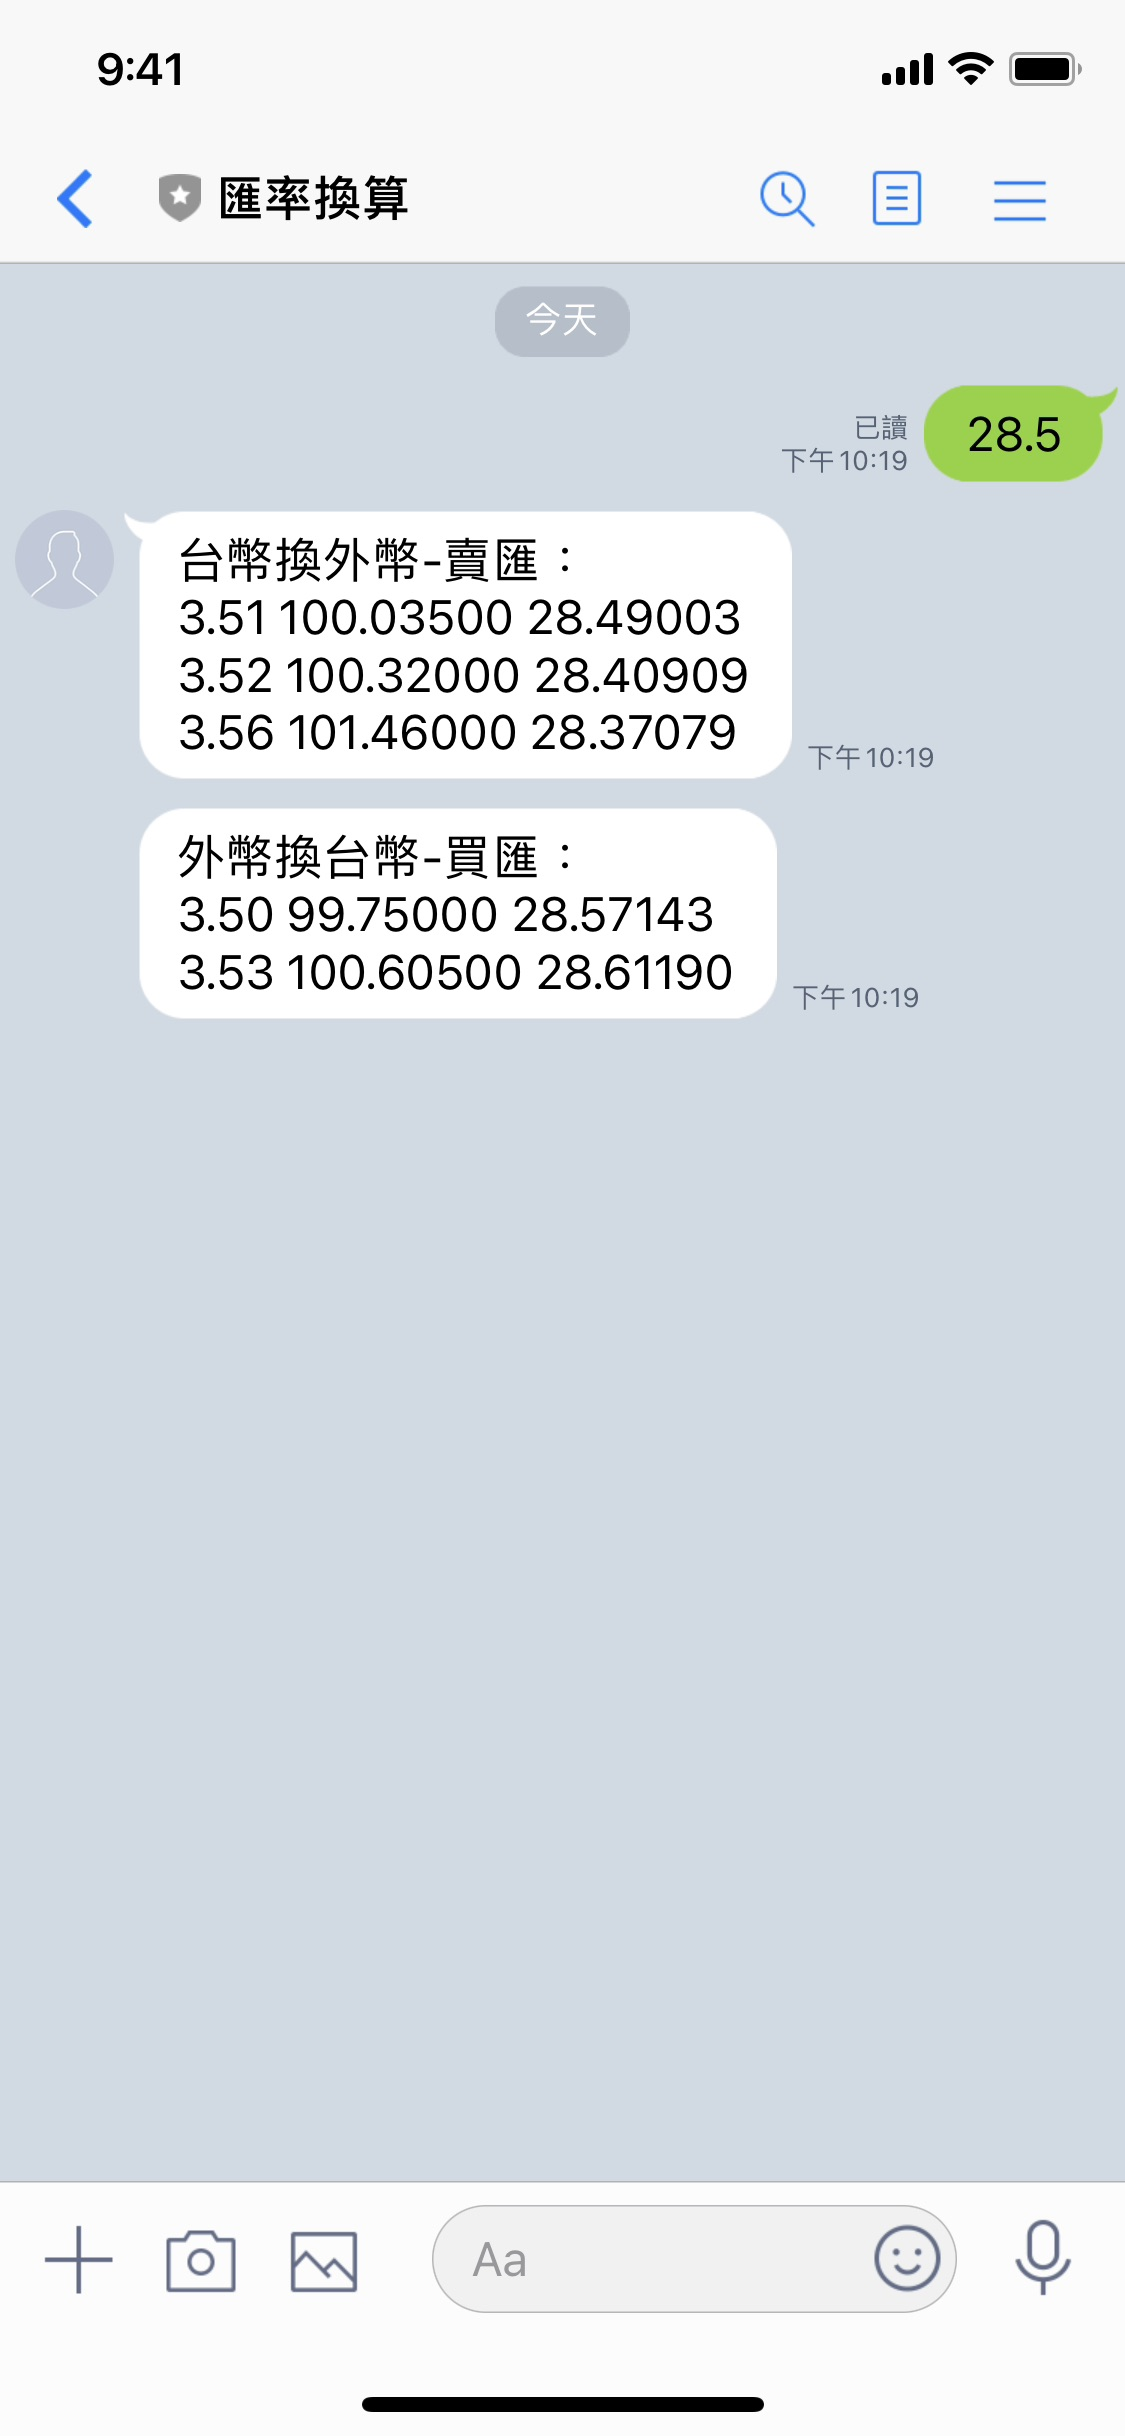
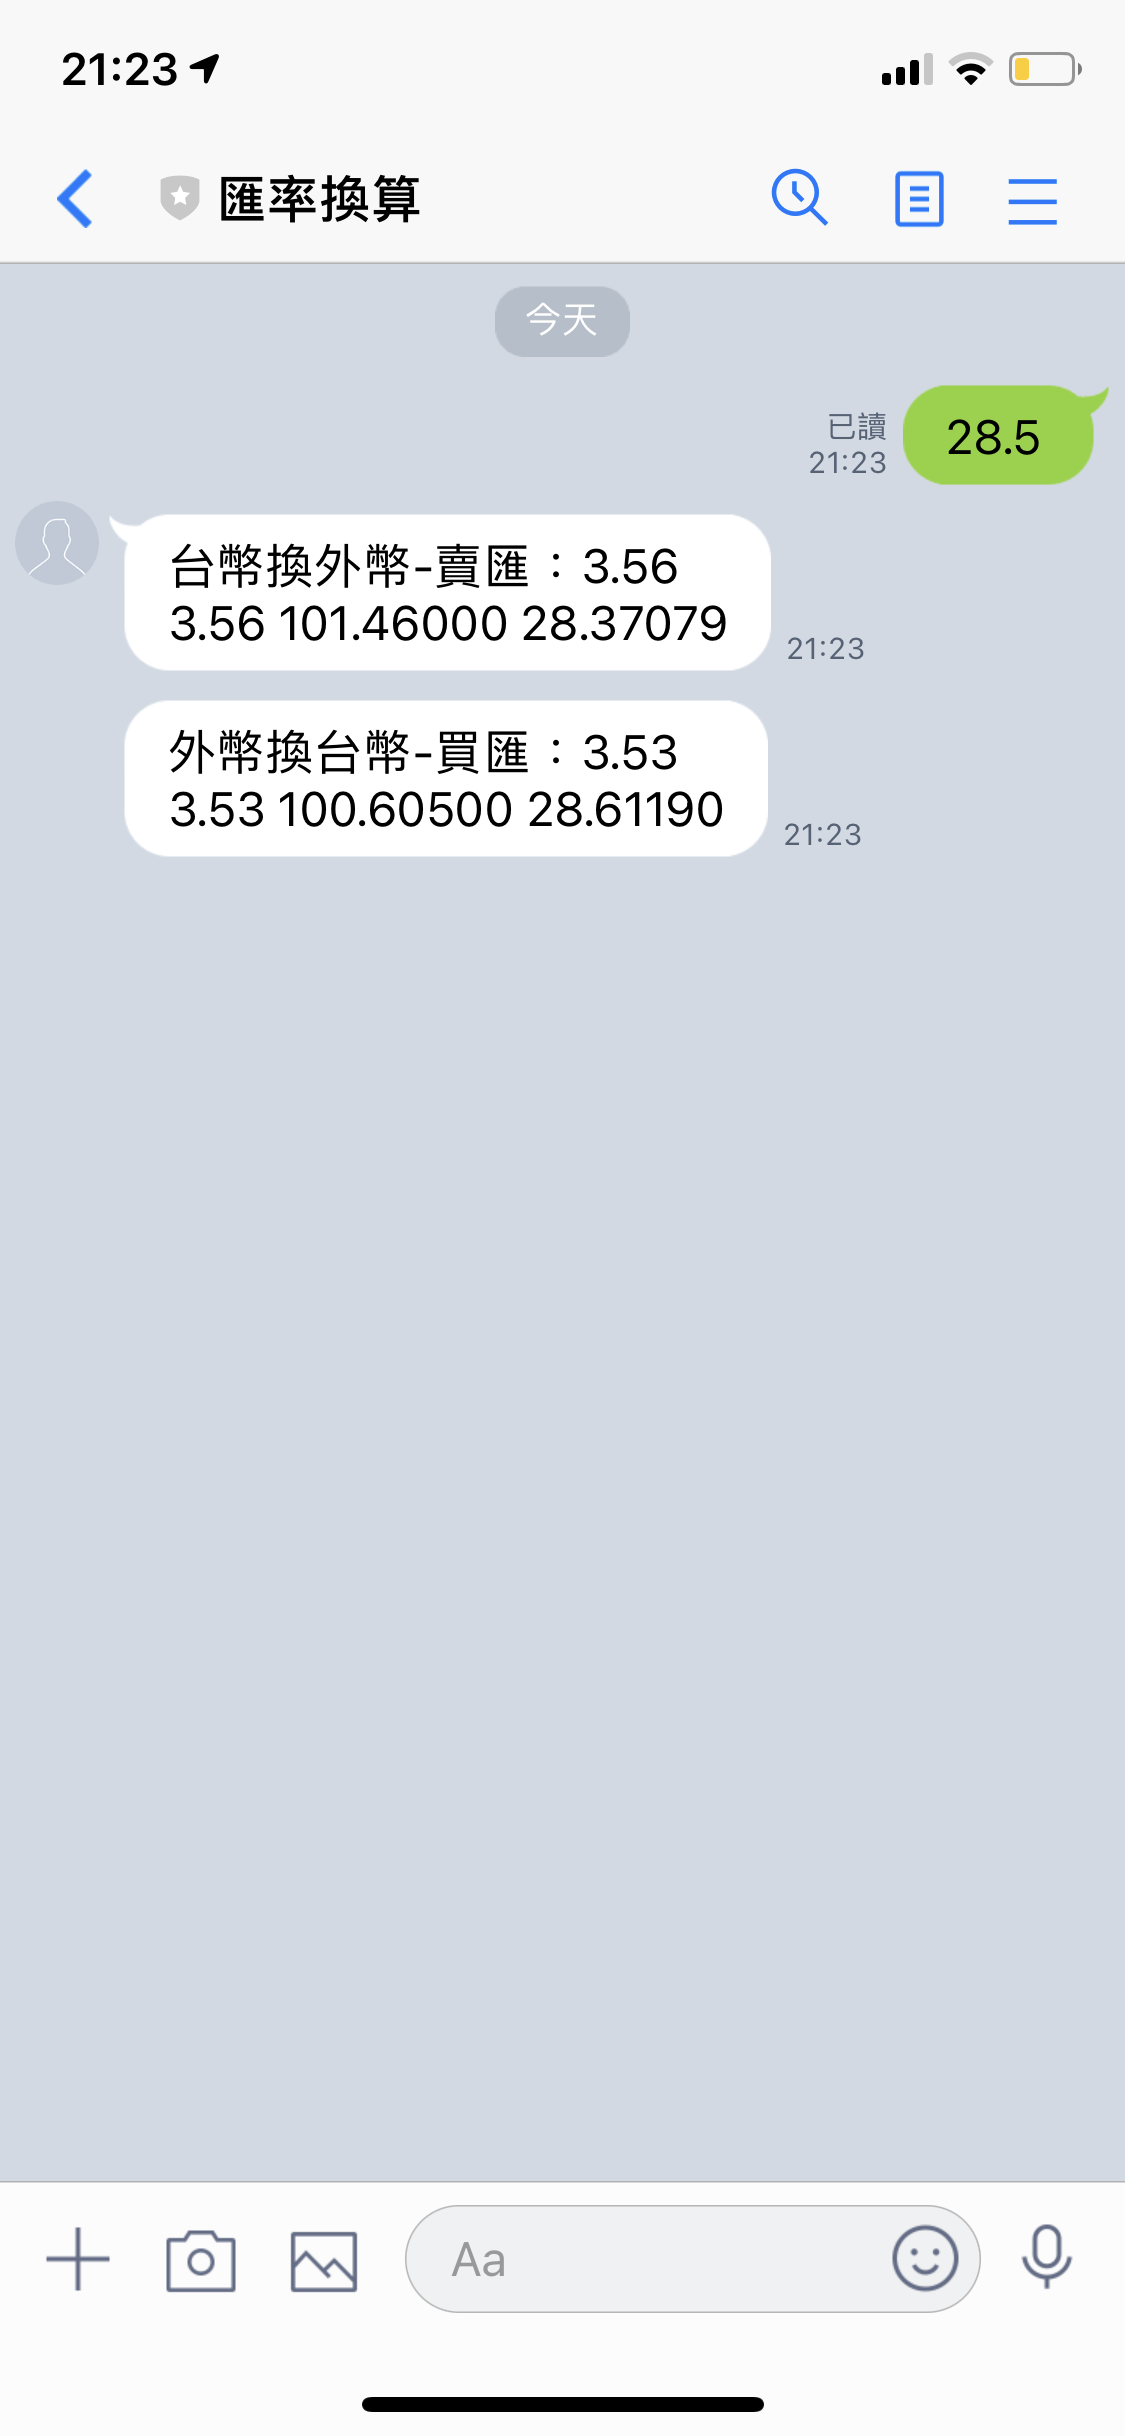
更改輸出方式

diff --git a/換匯計算/程式碼.js b/換匯計算/程式碼.js
@@ -23,7 +23,7 @@ function doPost(e) { //處理 LineBot Post Request
                     if (!isNaN(Number(text))) {
                         text = Number(text);
                         if (text > 0)
-                            LineBotReply(String("台幣換外幣-賣匯：\n" + ask(text, userMinSu)), String("外幣換台幣-買匯：\n" + bid(text, userMinSu)), String(replyToken));
+                            LineBotReply(String("台幣換外幣-賣匯：" + ask(text, userMinSu)), String("外幣換台幣-買匯：" + bid(text, userMinSu)), String(replyToken));
                         else
                             LineBotReply("請輸入大於0的數字", String(replyToken));
                     }
@@ -105,10 +105,9 @@ function ask(a, userMinSu) { //台幣換外幣-賣匯
 
         if ((Math.floor(temp * 10) % 10 <= 4) && (temp2 / num <= min)) {
             min = temp2 / num;
-            str += newLine(num.toFixed(UserSu), temp.toFixed(5), min.toFixed(5));
+            str = num.toFixed(UserSu) + newLine(num.toFixed(UserSu), temp.toFixed(5), min.toFixed(5));
         }
     }
-    str = str.slice(0, str.length - 1);
     return str;
 }
 
@@ -123,19 +122,18 @@ function bid(b, userMinSu) { //外幣換台幣-買匯
 
         if ((Math.floor(temp * 10) % 10 >= 5) && (temp2 / num >= max)) {
             max = temp2 / num;
-            str += newLine(num.toFixed(UserSu), temp.toFixed(5), max.toFixed(5));
+            str = num.toFixed(UserSu) + newLine(num.toFixed(UserSu), temp.toFixed(5), max.toFixed(5));
         }
     }
-    str = str.slice(0, str.length - 1);
     return str;
 }
 
 function newLine(...text) { //將傳入的變數以空格隔開並換行
-    var str = ""
+    var str = "\n"
     text.forEach(function (t) {
         str += t + " "
     })
-    str = str.slice(0, str.length - 1) + "\n";
+    str = str.slice(0, str.length - 1);
     return str;
 }
 

diff --git a/換匯計算/README.md b/換匯計算/README.md
@@ -1,9 +1,9 @@
-# 換匯計算 v1.1.1
+# 換匯計算 v1.1.2
 ## 功能說明
 * 輸入當前外幣匯率，並透過四捨五入找出最划算換匯金額。
 * 支援自訂最小換匯金額與單位
 ## 更新說明
-* 加入重置最小換匯金額與單位的功能
+* 只輸出最佳解果
 ## 操作說明
 1. 加入line@ 帳號：[@623wfvys](https://lin.ee/2vXjHNl)
 
